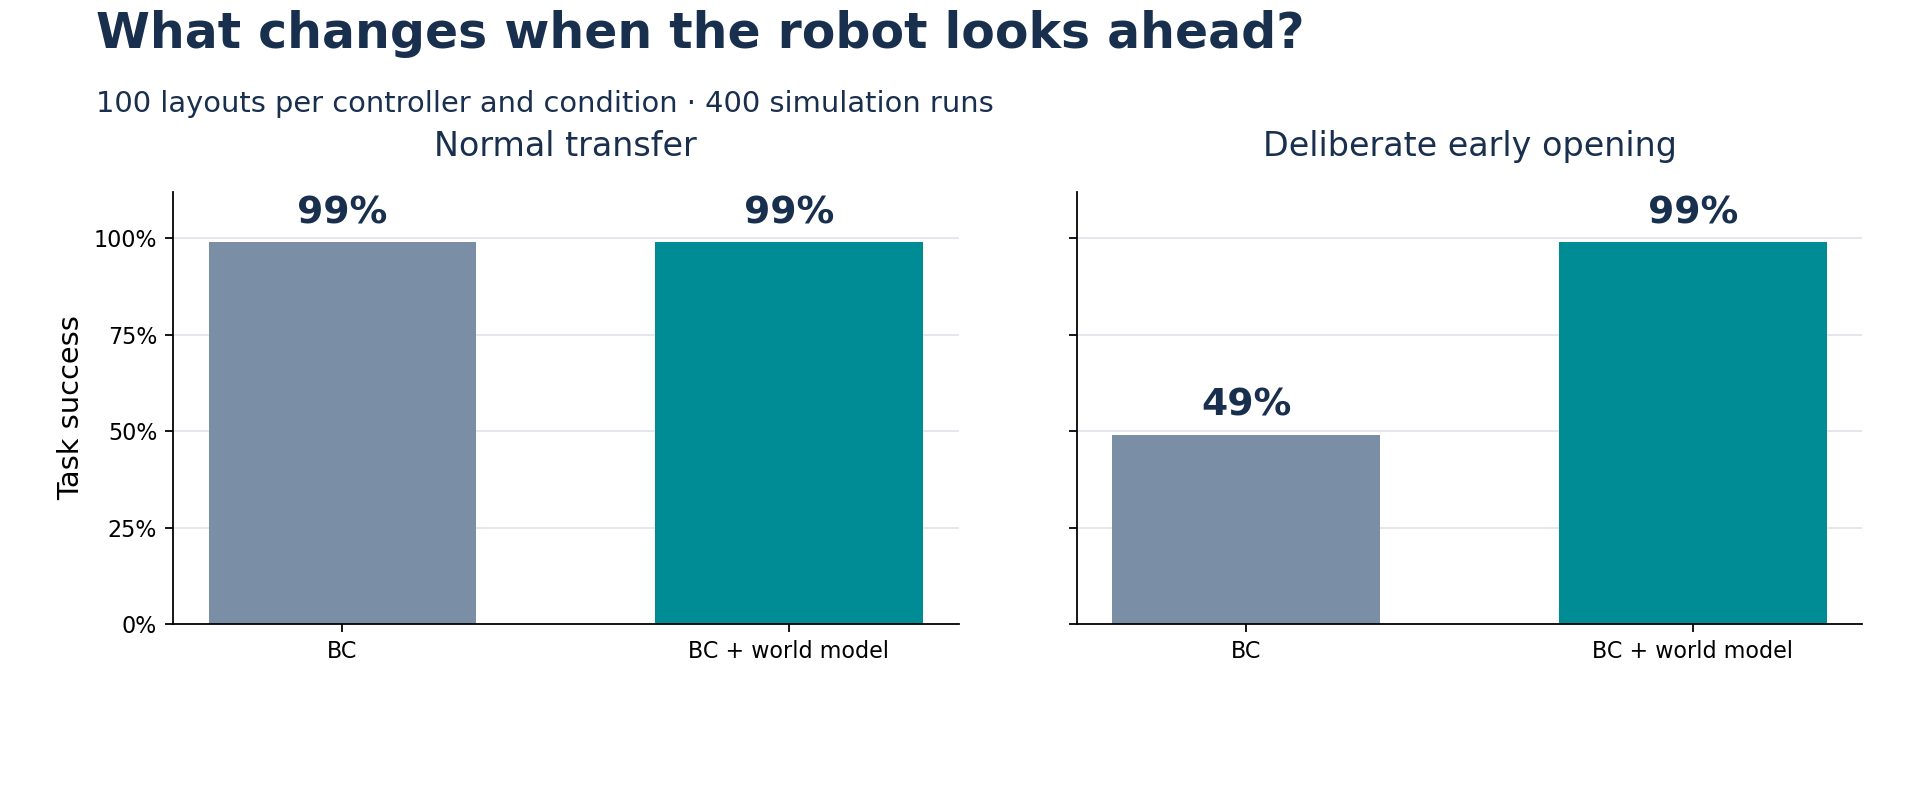
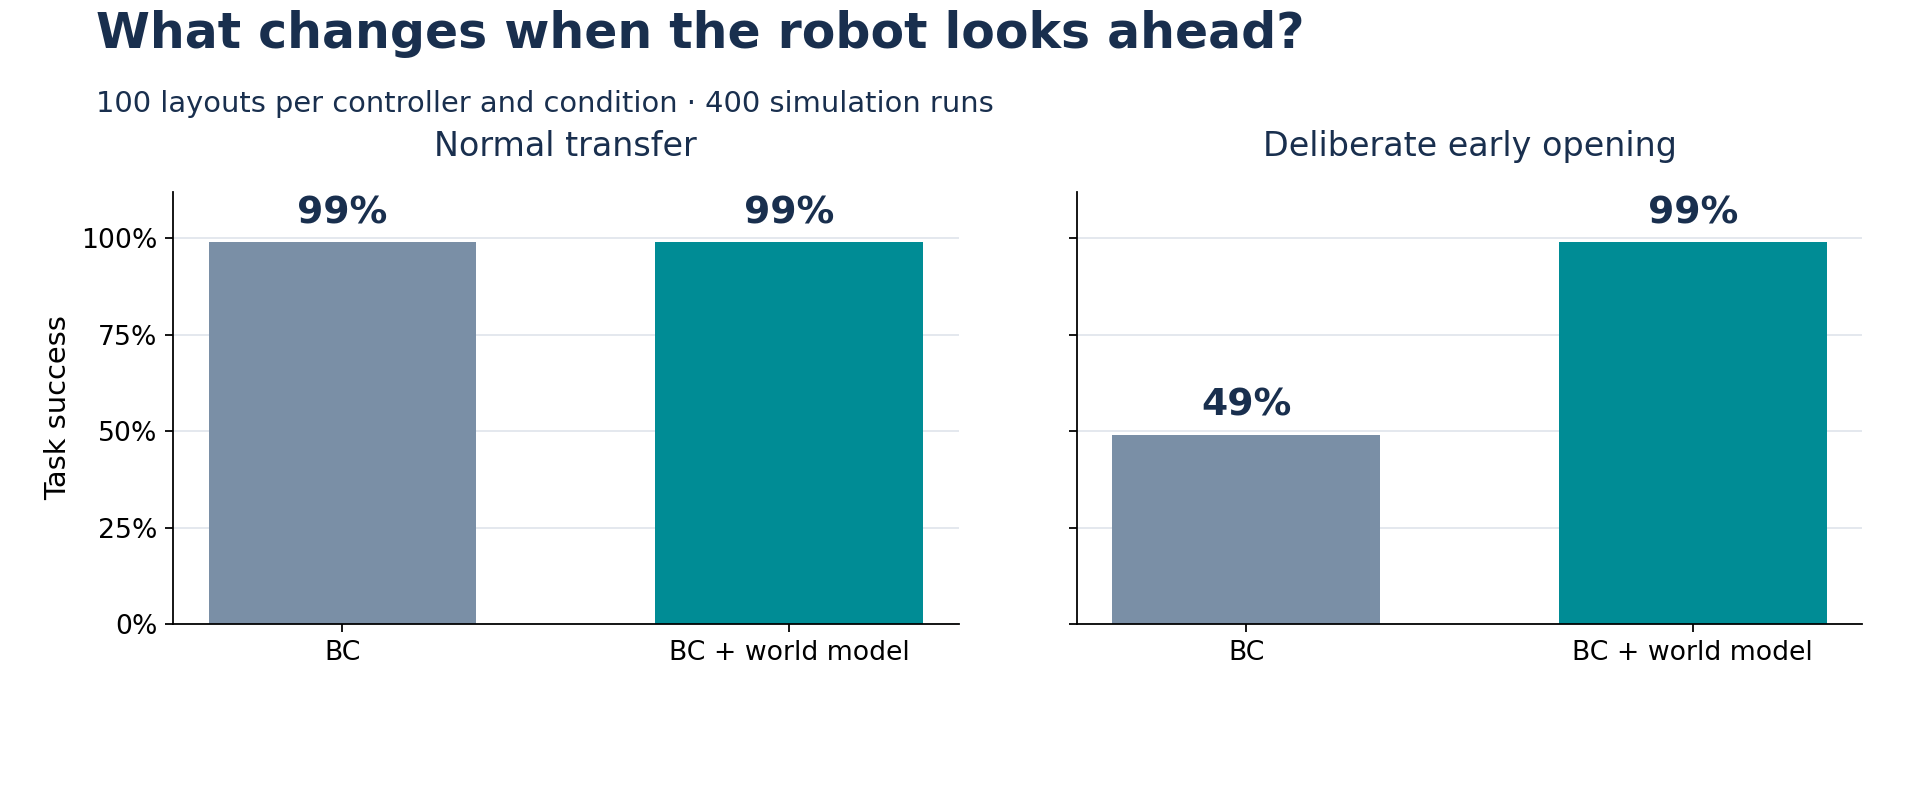
Illustrate marker coordinates and recorded movement in the README

diff --git a/scripts/make_presentation_figures.py b/scripts/make_presentation_figures.py
@@ -1,0 +1,196 @@
+"""Make README figures from the original recording and saved measurements.
+
+Run from the project root:
+    python scripts/make_presentation_figures.py --out work/readme-figures
+
+This only reads existing data. It does not regenerate demonstrations or results.
+"""
+
+import argparse
+import csv
+import hashlib
+import json
+from pathlib import Path
+
+import cv2
+import matplotlib
+matplotlib.use("Agg")
+import matplotlib.pyplot as plt
+from matplotlib.ticker import PercentFormatter
+import numpy as np
+
+ROOT = Path(__file__).resolve().parents[1]
+SOURCE = "IMG_5539"
+FRAME = 105  # 3.5 seconds: the hand and marker are both visible.
+NAVY = "#192f4e"
+TEAL = "#008c95"
+GREY = "#7a8fa6"
+AXIS_COLORS = ["#ed4545", "#31a35b", "#2987ed"]
+
+
+def read_frame(path, frame):
+    video = cv2.VideoCapture(str(path))
+    try:
+        video.set(cv2.CAP_PROP_POS_FRAMES, frame)
+        ok, image = video.read()
+        if not ok:
+            raise ValueError(f"Could not read frame {frame} from {path}")
+        return cv2.cvtColor(image, cv2.COLOR_BGR2RGB)
+    finally:
+        video.release()
+
+
+def marker_axes(row):
+    # Match estimate_pose.py: a 3 cm marker and provisional camera settings.
+    camera = np.array([[1794.146, 0, 540], [0, 1794.146, 960], [0, 0, 1.]])
+    half = 0.03 / 2
+    corners_3d = np.array([
+        [-half, half, 0], [half, half, 0],
+        [half, -half, 0], [-half, -half, 0],
+    ], dtype=np.float32)
+    corners = np.array([
+        [float(row[f"corner_{i}_x"]), float(row[f"corner_{i}_y"])]
+        for i in range(4)
+    ], dtype=np.float32)
+    ok, rotation, position = cv2.solvePnP(
+        corners_3d, corners, camera, np.zeros(5), flags=cv2.SOLVEPNP_ITERATIVE,
+    )
+    if not ok:
+        raise ValueError("Marker pose estimation failed.")
+    points = np.array([[0, 0, 0], [.035, 0, 0], [0, .035, 0], [0, 0, .035]])
+    pixels, _ = cv2.projectPoints(points, rotation, position, camera, np.zeros(5))
+    fitted, _ = cv2.projectPoints(corners_3d, rotation, position, camera, np.zeros(5))
+    error = np.linalg.norm(fitted.reshape(4, 2) - corners, axis=1).mean()
+    return pixels.reshape(4, 2), float(error)
+
+
+def draw_axes(ax, points):
+    origin = points[0]
+    ax.scatter(*origin, s=30, color="white", edgecolor=NAVY, zorder=5)
+    for endpoint, name, color in zip(points[1:], "XYZ", AXIS_COLORS):
+        ax.annotate("", xy=endpoint, xytext=origin,
+                    arrowprops={"arrowstyle": "-|>", "color": color, "lw": 3})
+        ax.annotate(name, xy=endpoint, xytext=(7, 7), textcoords="offset points",
+                    color=color, fontsize=17, weight="bold",
+                    bbox={"facecolor": "white", "edgecolor": "none", "alpha": .9, "pad": 2})
+
+
+def save_figure(fig, path):
+    fig.savefig(path, dpi=160, facecolor="white")
+    plt.close(fig)
+
+
+def make_marker_figure(image, axes, out):
+    fig, panels = plt.subplots(1, 2, figsize=(12, 7), gridspec_kw={"width_ratios": [1.3, 1]})
+    fig.subplots_adjust(top=.78, bottom=.10, left=.04, right=.96, wspace=.12)
+    fig.text(.04, .94, "The marker gives the object a reference frame", size=22, weight="bold", color=NAVY)
+    fig.text(.04, .88, "TF: estimated marker position and orientation relative to the camera", size=13, color=NAVY)
+    for ax in panels:
+        ax.imshow(image)
+        draw_axes(ax, axes)
+        ax.axis("off")
+    panels[0].set_xlim(0, 1080)
+    panels[0].set_ylim(1450, 450)
+    panels[0].set_title("My recording", loc="left", pad=12, fontsize=14)
+    x, y = axes[0]
+    panels[1].set_xlim(x - 220, x + 220)
+    panels[1].set_ylim(y + 220, y - 220)
+    panels[1].set_title("The same marker, enlarged", loc="left", pad=12, fontsize=14)
+    fig.text(.04, .035, "Four detected corners define the frame. The coloured arrows show its X, Y and Z axes.", size=12, color=NAVY)
+    save_figure(fig, out / "phone-marker-frame.png")
+
+
+def make_path_figure(image, movement, transport, out):
+    fig, (photo, chart) = plt.subplots(1, 2, figsize=(12, 7), gridspec_kw={"width_ratios": [1.15, 1]})
+    fig.subplots_adjust(top=.78, bottom=.14, left=.04, right=.96, wspace=.25)
+    fig.text(.04, .94, "From my movement to a robot path", size=22, weight="bold", color=NAVY)
+    fig.text(.04, .88, "One recording: track the object, then smooth and adapt its movement", size=13, color=NAVY)
+    photo.imshow(image)
+    x, y = movement["x_pixels"], movement["y_pixels"]
+    photo.plot(x, y, color="white", lw=5, alpha=.85)
+    photo.plot(x, y, color=TEAL, lw=2.5)
+    photo.scatter(x, y, s=8, color=TEAL)
+    for index, name, shift in [(0, "Start", (8, -28)), (-1, "Finish", (5, 24))]:
+        photo.scatter(x[index], y[index], s=60, color=TEAL, edgecolor="white", zorder=4)
+        photo.annotate(name, (x[index], y[index]), xytext=shift, textcoords="offset points",
+                       fontsize=12, color=NAVY, bbox={"facecolor": "white", "edgecolor": "none", "alpha": .95})
+    photo.set_xlim(0, 1080)
+    photo.set_ylim(1450, 450)
+    photo.axis("off")
+    photo.set_title("Tracked object path · 2.5–7.3 seconds", loc="left", fontsize=13, pad=12)
+    time, height = transport["time_seconds"], 100 * transport["height_m"]
+    chart.plot(time, height, color=TEAL, lw=3)
+    chart.fill_between(time, height, color=TEAL, alpha=.10)
+    chart.set(xlabel="Robot transport time (seconds)", ylabel="Adapted lift (cm)", ylim=(0, 11))
+    chart.set_title("Adapted robot lift", loc="left", fontsize=13, pad=12)
+    chart.grid(axis="y", color="#e1e6ec")
+    chart.spines[["top", "right"]].set_visible(False)
+    chart.set_box_aspect(.8)
+    fig.text(.04, .035, "The image path follows the marker. The lift curve comes from the saved, adapted transport data.", size=12, color=NAVY)
+    save_figure(fig, out / "phone-motion-path.png")
+
+
+def make_results_figure(report, out):
+    fig, panels = plt.subplots(1, 2, figsize=(12, 5), sharey=True)
+    fig.subplots_adjust(top=.76, bottom=.22, left=.09, right=.97, wspace=.15)
+    fig.text(.05, .94, "What changes when the robot looks ahead?", size=22, weight="bold", color=NAVY)
+    fig.text(.05, .86, "100 layouts per controller and condition · 400 simulation runs", size=13, color=NAVY)
+    for ax, condition, title in zip(panels, ["normal", "opening_pulse"], ["Normal transfer", "Deliberate early opening"]):
+        entries = [report["summary"][condition][mode] for mode in ["bc", "wm"]]
+        values = [100 * row["task_successes"] / row["episodes"] for row in entries]
+        bars = ax.bar(["BC", "BC + world model"], values, color=[GREY, TEAL], width=.6)
+        ax.bar_label(bars, labels=[f"{value:g}%" for value in values], padding=5, size=17, weight="bold", color=NAVY)
+        ax.set_title(title, fontsize=15, pad=16, color=NAVY)
+        ax.set_ylim(0, 112)
+        ax.set_yticks([0, 25, 50, 75, 100])
+        ax.yaxis.set_major_formatter(PercentFormatter(100))
+        ax.grid(axis="y", color="#e1e6ec")
+        ax.set_axisbelow(True)
+        ax.spines[["top", "right"]].set_visible(False)
+    panels[0].set_ylabel("Task success", fontsize=13)
+    save_figure(fig, out / "control-success-percent.png")
+
+
+def main():
+    parser = argparse.ArgumentParser(description=__doc__)
+    parser.add_argument("--root", type=Path, default=ROOT)
+    parser.add_argument("--out", type=Path, required=True)
+    args = parser.parse_args()
+    args.out.mkdir(parents=True, exist_ok=False)
+    plt.rcParams.update({"font.family": "DejaVu Sans", "font.size": 12, "text.color": NAVY})
+    raw = args.root / "data/raw" / f"{SOURCE}.mp4"
+    processed = args.root / "data/processed"
+    corners_path = processed / f"{SOURCE}_marker_corners.csv"
+    with corners_path.open() as file:
+        row = next(row for row in csv.DictReader(file) if int(row["frame"]) == FRAME and row["detected"] == "1")
+    image = read_frame(raw, FRAME)
+    axes, error = marker_axes(row)
+    movement_path = processed / f"{SOURCE}_movement_corners.csv"
+    transport_path = processed / f"{SOURCE}_transport.csv"
+    movement = np.genfromtxt(movement_path, delimiter=",", names=True)
+    if not np.all(movement["detected"] == 1):
+        raise ValueError("The selected movement contains missing detections.")
+    transport = np.genfromtxt(transport_path, delimiter=",", names=True)
+    report_path = args.root / "docs/phone-only-confirmation.json"
+    report = json.loads(report_path.read_text())
+    make_marker_figure(image, axes, args.out)
+    make_path_figure(image, movement, transport, args.out)
+    make_results_figure(report, args.out)
+    sources = {
+        "source_recording": SOURCE, "frame": FRAME, "frame_time_seconds": 3.5,
+        "marker_size_m": .03, "axis_length_m": .035,
+        "mean_corner_reprojection_error_pixels": error,
+        "axes_projected_pixels": axes.tolist(),
+        "pose_method": "Same solvePnP settings as estimate_pose.py; provisional camera calibration",
+        "trajectory": "Saved marker-centre image coordinates; hand is visible but not tracked",
+        "transport": "Saved smoothed and retimed transport, not raw measured height",
+        "sha256": {},
+    }
+    for path in [raw, corners_path, movement_path, transport_path, report_path]:
+        sources["sha256"][str(path.relative_to(args.root))] = hashlib.sha256(path.read_bytes()).hexdigest()
+    (args.out / "presentation-sources.json").write_text(json.dumps(sources, indent=2) + "\n")
+    print(f"Saved three figures and source records to {args.out}")
+
+
+if __name__ == "__main__":
+    main()

diff --git a/README.md b/README.md
@@ -18,15 +18,19 @@ I recorded myself moving an object into a container, then used those movements t
 
 I filmed five short videos of myself picking up an object, carrying it and placing it in a container. I attached an **ArUco marker**—the black-and-white square—to give the tracking code a consistent reference on the object.
 
-The marker's four corners let me estimate both **where the object is and how it is oriented** relative to the camera. A transform, or **TF**, describes the marker's position and orientation relative to the camera, so movement can be described in coordinates rather than just pixels.
+The marker's four corners let me estimate both **where the object is and how it is oriented** relative to the camera. The coloured axes below show the marker's local coordinate frame. Its transform, or **TF**, describes its position and orientation relative to the camera, so movement can be described in coordinates rather than just pixels.
+
+![Estimated X, Y and Z axes attached to the ArUco marker in my recording](docs/assets/phone-marker-frame.png)
+
+*Axes estimated from the detected marker corners using the same camera settings as the preprocessing pipeline.*
 
 ### Turn the footage into a usable path
 
 I selected the part of each recording where I moved the object. The pipeline then tracked the marker, estimated its movement in 3D, smoothed small fluctuations and adapted the path to the robot's workspace and pace.
 
-![The adapted lift extracted from my first phone recording](docs/assets/phone-transport.png)
+![My hand moving the marked object, its tracked image path, and the adapted lift used by the robot](docs/assets/phone-motion-path.png)
 
-*The lift curve comes from IMG_5539 after smoothing and adapting its motion for the robot.*
+*The line follows the marked object, not a separately tracked hand. The lift curve is the adapted robot path from the same recording.*
 
 These are the scripts behind the preparation, in the order they are used:
 

diff --git a/docs/project-map.md b/docs/project-map.md
@@ -99,3 +99,7 @@ The human replay also accepts `--jaw-torque-limit` for a separate contact diagno
 `evaluate_vla.py` loads the saved adapter, initializes a training scene once, then executes predictions from live images and robot measurements. The [first development rollout](human-vla-rollout.md) ran 400 steps but did not pick up the cube. It records model predictions, executed commands, physics traces and video, with no scripted grasp or world-model assistance.
 
 Follow-up: the [2,000-update experiment](human-vla-2000-updates.md) lowered fixed validation loss to 1.2959 but still failed to pick up the cube on the same development start. The original pilot remains preserved.
+
+## Presentation figures
+
+`make_presentation_figures.py` draws the README marker axes, recorded object path and percentage chart from saved inputs. It reads the original video and CSV/report files without changing them. To regenerate the figures, run `python scripts/make_presentation_figures.py --out work/readme-figures` from the repository root using the documented project dependencies. Choose a new output folder. [Figure sources](assets/presentation-sources.json) record the video frame, projection settings and input checksums.
